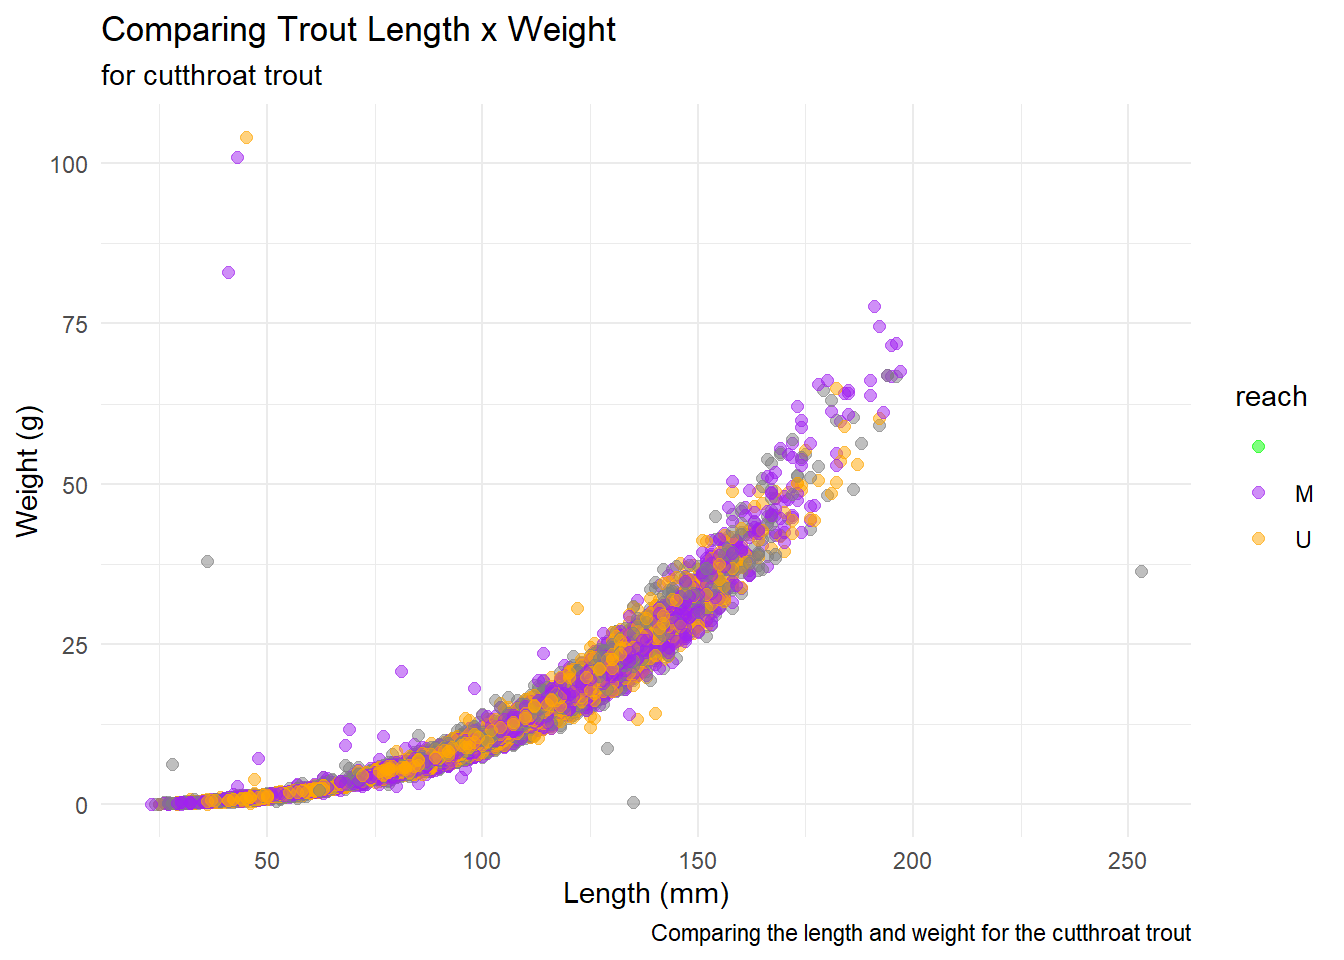
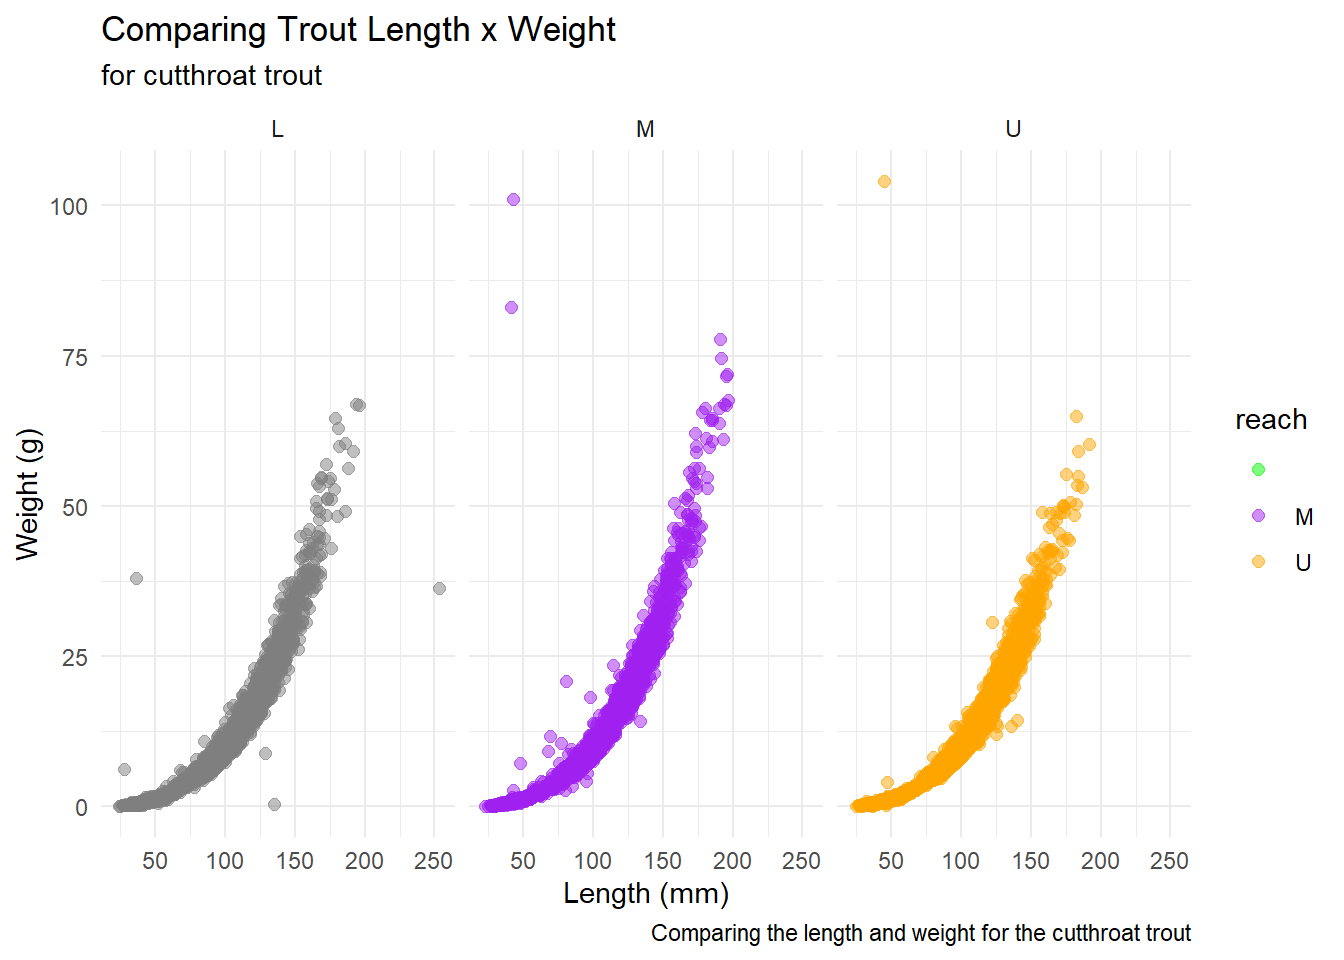
Adding ggplots

diff --git a/docs/Wild_Data.html b/docs/Wild_Data.html
@@ -176,12 +176,19 @@ code span.wa { color: #60a0b0; font-weight: bold; font-style: italic; } /* Warni
 <span id="cb9-8"><a href="#cb9-8" aria-hidden="true" tabindex="-1"></a>       <span class="at">title =</span> <span class="st">"Comparing Trout Length x Weight"</span>,</span>
 <span id="cb9-9"><a href="#cb9-9" aria-hidden="true" tabindex="-1"></a>       <span class="at">subtitle =</span> <span class="st">"for cutthroat trout"</span>,</span>
 <span id="cb9-10"><a href="#cb9-10" aria-hidden="true" tabindex="-1"></a>       <span class="at">caption =</span> <span class="st">"Comparing the length and weight for the cutthroat trout"</span>)<span class="sc">+</span></span>
-<span id="cb9-11"><a href="#cb9-11" aria-hidden="true" tabindex="-1"></a>  <span class="fu">scale_color_manual</span>(<span class="at">values =</span><span class="fu">c</span>(<span class="st">"green"</span>, <span class="at">M =</span> <span class="st">"purple"</span>, <span class="at">U =</span> <span class="st">"orange"</span>))</span>
-<span id="cb9-12"><a href="#cb9-12" aria-hidden="true" tabindex="-1"></a></span>
-<span id="cb9-13"><a href="#cb9-13" aria-hidden="true" tabindex="-1"></a>mc_trout_plot</span></code><button title="Copy to Clipboard" class="code-copy-button"><i class="bi"></i></button></pre></div>
+<span id="cb9-11"><a href="#cb9-11" aria-hidden="true" tabindex="-1"></a>  <span class="fu">scale_color_manual</span>(<span class="at">values =</span> <span class="fu">c</span>(<span class="st">"green"</span>, <span class="at">M =</span> <span class="st">"purple"</span>, <span class="at">U =</span> <span class="st">"orange"</span>))<span class="sc">+</span></span>
+<span id="cb9-12"><a href="#cb9-12" aria-hidden="true" tabindex="-1"></a>  <span class="fu">facet_wrap</span>(<span class="sc">~</span>reach)</span>
+<span id="cb9-13"><a href="#cb9-13" aria-hidden="true" tabindex="-1"></a></span>
+<span id="cb9-14"><a href="#cb9-14" aria-hidden="true" tabindex="-1"></a>mc_trout_plot</span></code><button title="Copy to Clipboard" class="code-copy-button"><i class="bi"></i></button></pre></div>
 <div class="cell-output-display">
 <p><img src="Wild_Data_files/figure-html/unnamed-chunk-9-1.png" class="img-fluid" width="672"></p>
 </div>
+</div>
+<p>Export your graph to figs folder</p>
+<div class="cell">
+<div class="sourceCode cell-code" id="cb10"><pre class="sourceCode r code-with-copy"><code class="sourceCode r"><span id="cb10-1"><a href="#cb10-1" aria-hidden="true" tabindex="-1"></a><span class="fu">ggsave</span>(<span class="at">plot =</span> mc_trout_plot, here<span class="sc">::</span><span class="fu">here</span>(<span class="st">"figs"</span>, <span class="st">"mc_trout_plot.png"</span>),</span>
+<span id="cb10-2"><a href="#cb10-2" aria-hidden="true" tabindex="-1"></a>       <span class="at">width =</span> <span class="dv">6</span>,</span>
+<span id="cb10-3"><a href="#cb10-3" aria-hidden="true" tabindex="-1"></a>       <span class="at">height =</span> <span class="dv">5</span>)</span></code><button title="Copy to Clipboard" class="code-copy-button"><i class="bi"></i></button></pre></div>
 </div>
 
 </main>
